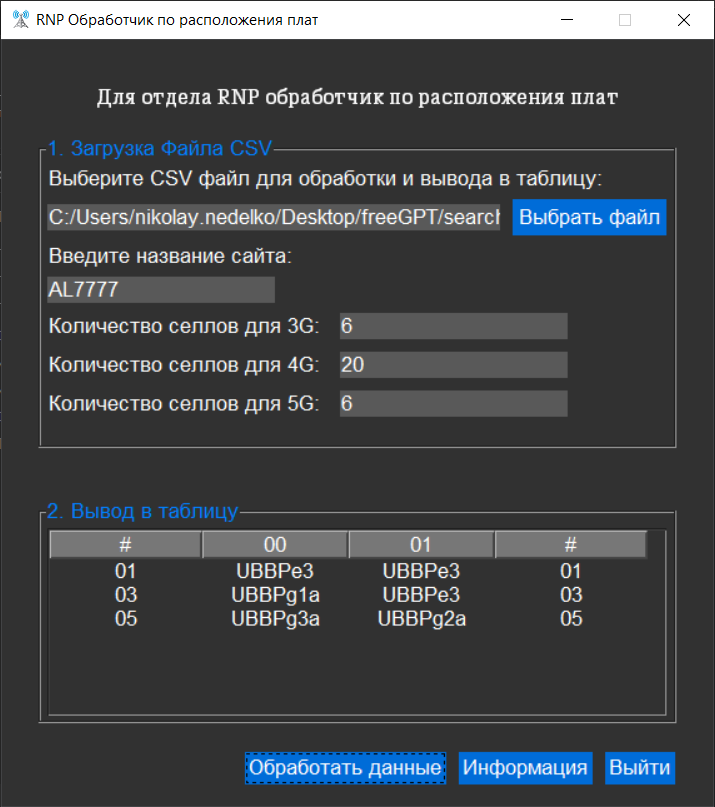
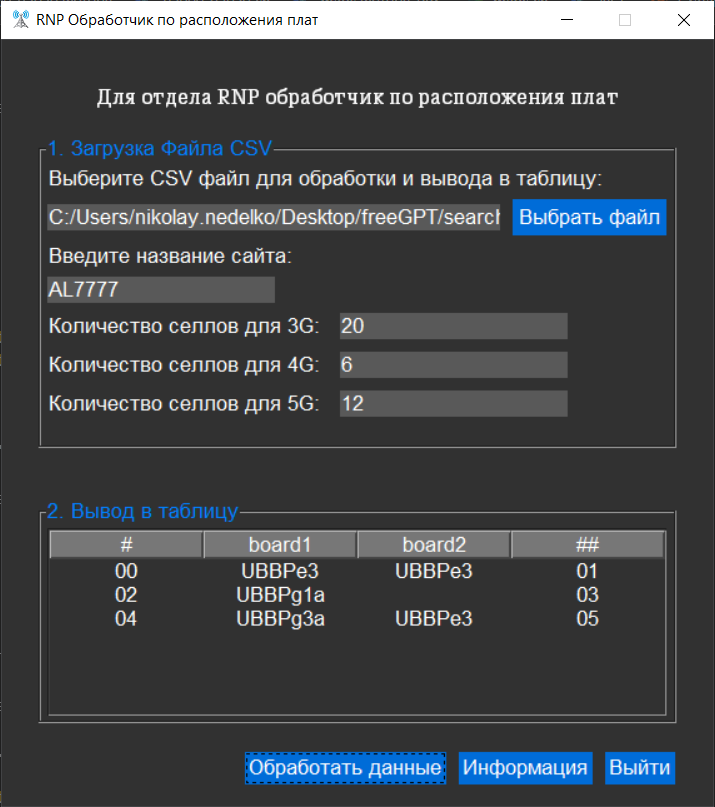
update files

diff --git a/search_ubb.py b/search_ubb.py
@@ -147,16 +147,6 @@ class CSVReader():
                 
 
 def main():
-    # sg.theme("SystemDefaultForReal")
-    # sg.SetOptions(
-    #             background_color="#313131", 
-    #             text_element_background_color="#313131", 
-    #             text_color="#fff",  
-    #             input_text_color ="#fff",  
-    #             element_background_color="#313131", 
-    #             input_elements_background_color="#595959",
-    #             button_color=( "White", "#217346"))
-
     working_directory = os.getcwd()
     font_Regular = working_directory + "\\img\\font\\Tele2Slab-Bold.ttf"
     pyglet.font.add_file(font_Regular)
@@ -202,12 +192,30 @@ def main():
             else:
                 sg.popup_error("Неверное имя пользователя или пароль.\nПожалуйста, повторите попытку.", title="Ошибка")
     
-    information = "Вот краткий обзор функциональности скрипта:\n \
-                \nСкрипт запрашивает (выбрать файл, ввести название сайта, ввести селлы) \
-                \nПосле нажатья на кнопку Обработать данные скрипт - обработает прогонит по функциям и создаст новый файл с сайтом и теми платами платами"
-             
+    information = """
+Цель программы: Эта программа предназначена для обработки данных из CSV-файлов, связанных с информацией о местоположении плат внутри определенных мест (сайтов) и сотовых сетей (3G, 4G и возможно 5G).
     
-    headings_ubb = ["#", "00", "01", "#"]
+– Загрузка CSV-файла –
+Выберите CSV-файл, содержащий данные о местоположении плат.
+Введите название сайта, к которому относятся данные из файла.
+Введите количество селлов для каждой из сотовых сетей (3G, 4G и 5G), если это необходимо.
+
+– Обработка данных –
+После ввода данных и нажатия кнопки "Обработать данные", программа выполнит следующие действия:
+Анализ данных из файла и их обработка в соответствии с заданными правилами.
+Генерация новых данных, которые будут отображены в таблице в программе.
+Если введено количество селлов для 3G и/или 4G, то программа может перераспределить платы в соответствии с заданными ограничениями.
+
+– Отображение данных в таблице –
+Обработанные данные отображаются в таблице на главном экране программы.
+Таблица содержит информацию о местоположении плат в сотовых сетях.
+
+– Сохранение результата –
+После обработки данных программа сохранит новые данные в CSV-файл с названием сайта.
+Новый файл будет содержать информацию о местоположении плат с учетом проведенных изменений.
+    """
+
+    headings_ubb = ["#", "board1", "board2", "##"]
     headings = list(headings_ubb)
     
     file_list_column = [
@@ -226,9 +234,9 @@ def main():
     
     layout = [
         [sg.Text("\nДля отдела RNP обработчик по расположения плат", enable_events=True, key="-TEXT-", pad=(15, 0), font=font_Regular)],
-        [sg.Frame("1. Загрузка Файла CSV", file_list_column, size=(510, 250), title_color="#007fff", pad=(15, 20))],
+        [sg.Frame("1. Загрузка Файла CSV", file_list_column, size=(520, 250), title_color="#007fff", pad=(15, 20))],
         # sg.VSeperator(),
-        [sg.Frame("2. Вывод в таблицу", table_list_column, size=(510, 180), title_color="#007fff", pad=(15, 20))],
+        [sg.Frame("2. Вывод в таблицу", table_list_column, size=(520, 190), title_color="#007fff", pad=(15, 20))],
         [sg.Text("", size=(17, 1)), 
             sg.Button("Обработать данные", use_ttk_buttons=True, border_width = False, key="-UPDATE_FILE-"),  
             sg.Button("Информация", use_ttk_buttons=True, border_width = False, key="-INFO-"), 
@@ -244,7 +252,7 @@ def main():
                 break
             
             elif event == "-INFO-":
-                sg.popup_ok(information, sg.version, font="Arial 12", grab_anywhere=True)
+                sg.popup_ok(information, sg.version, line_width = 100, font=("Arial Bold", 12), grab_anywhere=True)
                 
             elif event == "-UPDATE_FILE-":
                 file_name = values["-FILE_PATH-"]
@@ -279,6 +287,7 @@ def main():
                                 if cell_5g != 0:
                                     csv_reader.deal_with_04_slot()
 
+                                # Получить значения для столбцов 00 и 01
                                 data = {
                                     0: ["00", "02", "04"],
                                     1: [csv_reader.new_site_info[0], csv_reader.new_site_info[2], csv_reader.new_site_info[4]],
@@ -290,8 +299,8 @@ def main():
                                 new_file_name = f'{csv_reader.site}.csv'
                                 df.to_csv(new_file_name, index=False, header=False)
                                 table_data = df.values.tolist()
+                                # data_without_header = table_data[1:]
                                 window["-TABLE-"].update(values=table_data, visible=True)
-                                sg.popup_ok(f'Файл - {new_file_name} успешно обработан.')
 
     window.close()
 if __name__ == "__main__":
